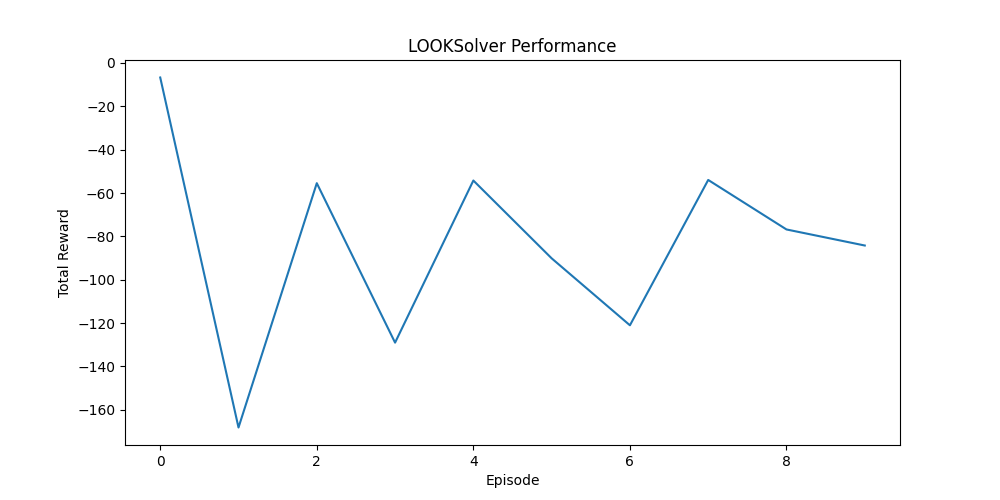
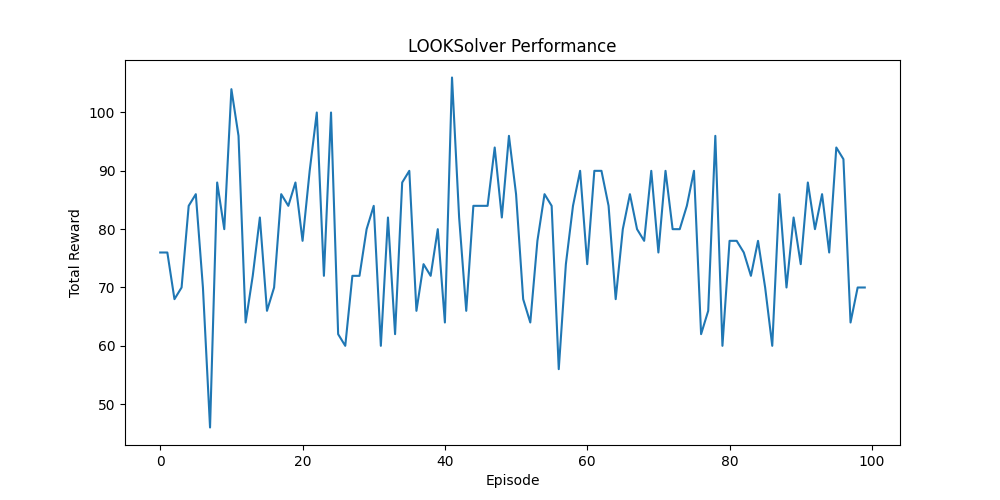
debug

diff --git a/Solver/LOOK.py b/Solver/LOOK.py
@@ -117,7 +117,7 @@ class LOOKSolver:
     def reset(self, info):
         self.directions = [0 for _ in range(info["M"])]
 
-    def run_episode(self, max_steps=100):
+    def run_episode(self, max_steps=200):
         obs, info = self.env.reset()
         self.reset(info)
         
@@ -125,7 +125,8 @@ class LOOKSolver:
         total_done = 0
         total_waiting = 0
         step_count = 0
-        for _ in range(max_steps):
+        while True:
+        
             step_count += 1
             action = self.get_next_action((obs, info))
             # print(f"action: {action}")
@@ -135,10 +136,13 @@ class LOOKSolver:
             total_done = info["done"]
             total_waiting = info["waiting"]
             # env.render()
+            if info["time"] > max_steps:
+                break
             if done or truncated:
                 break
         print(f"info[\"done\"]: {info['done']}")
         print(f"step_count: {step_count}")
+        print(f"time: {info['time']}")
         return total_reward, total_done, total_waiting
     
     def benchmark(self, num_episodes=100):
@@ -166,11 +170,11 @@ if __name__ == "__main__":
                    num_floors=20, 
                    num_cars=4, 
                    avg_passengers_spawning_time=5,
-                   total_passengers=50,
+                   total_passengers=1000000,
                    capacity=3)
     solver = LOOKSolver(env)
     rewards = []
-    rewards = solver.benchmark(num_episodes=10)
+    rewards = solver.benchmark(num_episodes=100)
     # print(f"rewards: {rewards}")
     print(f"mean reward: {np.mean(rewards)}")
     solver.plot(rewards)

diff --git a/Elevators/envs/simple_elevators.py b/Elevators/envs/simple_elevators.py
@@ -330,20 +330,22 @@ class ElevatorEnv(gym.Env):
 
     def _reward_snapshot(self) -> float:
         """Negative waiting + riding time (scaled)."""
-        w = 0.0
-        for p in self.waiting:
-            if p.t_request is not None:
-                w += self.time - p.t_request
+        # w = 0.0
+        # for p in self.waiting:
+        #     if p.t_request is not None:
+        #         w += self.time - p.t_request
     
-        r = 0.0
-        for car in self.cars:
-            for p in car.passengers:
-                if p.t_board is not None:
-                    r += self.time - p.t_board
-        reward = -(w + r) * 1e-3 + self.arrival_reward + self.board_reward
-        self.arrival_reward = 0.0
-        self.board_reward = 0.0
+        # r = 0.0
+        # for car in self.cars:
+        #     for p in car.passengers:
+        #         if p.t_board is not None:
+        #             r += self.time - p.t_board
+        # reward = -(w + r) * 1e-3 + self.arrival_reward + self.board_reward
+        # self.arrival_reward = 0.0
+        # self.board_reward = 0.0
         # print(f"reward: {-(w + r) * 1e-3:.2f}, w = {w:.2f}, r = {r:.2f}")
+        reward = self.arrival_reward
+        self.arrival_reward = 0.0
         return reward
 
     # ------------------------------------------------------------------
